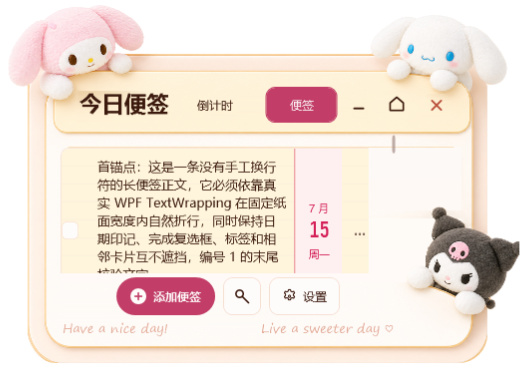
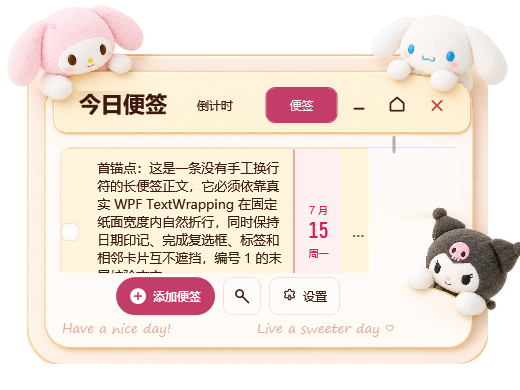
fix: 验证捕获钉死确定性文本渲染，免疫显示拓扑基线误红
GameViewer 虚拟显示器 21:09 上线改变显示拓扑，WPF 文本渲染参数（灰阶
gamma/对比度/ClearType 推导）随之切换，捕获帧文本渲染漂移，SourceTree
基线像素门禁（逐字节哈希）main/floating 自 21:49 起双双误红；同源码
15:53 全绿。已排除 exe/源码哈希漂移、色温、字体更新、墙钟泄漏。

ValidationReport 新增 PinDeterministicTextOptions：捕获钉死
TextRenderingMode=Aliased + TextFormattingMode=Ideal，1-bit 光栅化不经
灰阶参数管线，渲染输出仅由字形几何与布局决定。按新口径重拍 12 帧基线
与 2 份 manifest（旧帧归档 run-evidence v22-prev-20260917-234056），
金丝雀值按新帧重推导，DESIGN.md §11 记录根因与口径；同步
IntegrityHashes（CSharp.Tests / ValidationReport.cs）。

验证：虚拟屏在线夜间时段完整 C# 套件 857/0、快速复现 validate-only
Valid:true、Deploy -ValidateOnly 571 文件全绿。

diff --git a/src/MinminCountdown/ValidationReport.cs b/src/MinminCountdown/ValidationReport.cs
@@ -3421,10 +3421,11 @@ internal static class ValidationReport
         // 重推导（x=200 列，delta≥30，证据 run-evidence\clock-countdown-issue-146-final-closure）。
         // Notes-Day 标签带收窄至 [405,424]：[425,426] 是 #135 sanction 的工作区卡片顶边（全宽），
         // 旧 [405,440] 会在新布局下把 sanctioned 卡边误计为标签带违规；标签字形仍被精确行金丝覆盖。
+        // 2026-09-17 深夜：捕获口径改 Aliased+Ideal 并重拍 v22 后按新帧再次重推导（同一 x=200/delta≥30 口径）。
         var specs = new[]
         {
-            new MainDaySingleBorderSpec("Countdown-Day", "countdown", "main-day-countdowns-empty.png", 480, 580, new[] { 540, 542, 553, 554, 555 }, 480, 510),
-            new MainDaySingleBorderSpec("Notes-Day", "notes", "main-day-notes-empty.png", 405, 525, new[] { 425, 426, 474, 499, 500, 503, 504, 506, 508, 509, 516, 517 }, 405, 424)
+            new MainDaySingleBorderSpec("Countdown-Day", "countdown", "main-day-countdowns-empty.png", 480, 580, new[] { 539, 540, 552, 553 }, 480, 510),
+            new MainDaySingleBorderSpec("Notes-Day", "notes", "main-day-notes-empty.png", 405, 525, new[] { 425, 426, 497, 498, 499, 501, 502, 503, 505, 506, 514, 515 }, 405, 424)
         };
         var directory = Path.Combine(
             Path.GetFullPath(sourceRoot),
@@ -8092,13 +8093,18 @@ internal static class ValidationReport
         }
     }
 
-    // 文本抗锯齿与格式化默认跟随系统 ClearType/显示设置漂移；基线重拍与无人值守
-    // 复验必须在同一渲染参数下进行，统一钉死为灰阶抗锯齿 + Display 格式化。
+    // 文本抗锯齿与格式化默认跟随系统显示环境漂移，且不只是抗锯齿灰阶：WPF 未显式钉死时
+    // 会按显示拓扑推导渲染参数（Avalon.Graphics 覆盖缺失时的系统查询路径），显示拓扑变化
+    // （如虚拟显示适配器加入）会同时改变 Display 格式化的像素对齐度量（实测长便签列表
+    // ScrollableHeight 871.4 -> 879.67 漂移）与灰阶抗锯齿的 gamma/对比度（细笔画出现/消失），
+    // 使像素基线门禁在环境变化后误红。捕获路径统一钉死为 Ideal 浮点格式化（度量只由字体
+    // 文件决定，无像素网格 hinting）+ Aliased 1-bit 光栅化（不经灰阶 gamma/对比度管线），
+    // 从机制上移除显示推导参数的入口，使捕获像素与布局对显示拓扑/时段确定。
     // TextOptions 是可继承附加属性，在捕获根上设置即下传，重复调用幂等。
     private static void PinDeterministicTextOptions(FrameworkElement visual)
     {
-        TextOptions.SetTextRenderingMode(visual, TextRenderingMode.Grayscale);
-        TextOptions.SetTextFormattingMode(visual, TextFormattingMode.Display);
+        TextOptions.SetTextRenderingMode(visual, TextRenderingMode.Aliased);
+        TextOptions.SetTextFormattingMode(visual, TextFormattingMode.Ideal);
     }
 
     private static RenderTargetBitmap RenderVisualToBitmap(FrameworkElement visual, int width, int height)

diff --git a/DESIGN.md b/DESIGN.md
@@ -408,7 +408,9 @@ App.xaml 控件模板段对基础 WPF 控件提供统一状态语言，全部引
 
 “视觉基线”指 manifest 钉死的真实 WPF 渲染截图集合，是视觉变化的唯一验收依据。演进口径如下：
 
[2 lines of base64/hex data omitted]
+
+2026-09-17 深夜补拍（捕获口径环境解耦）：当晚 21:09 GameViewer 虚拟显示适配器加入显示拓扑后，WPF 在无 `Avalon.Graphics` 覆盖键时按显示环境推导的文本渲染参数整体漂移——灰阶抗锯齿的 gamma/对比度变化（细笔画出现/消失）叠加 Display 格式化像素对齐度量变化（长便签列表 `ScrollableHeight` 871.4→879.67）——v22 双基线自 21:49 起在 SourceTree validate 中持续误红（`PngHashesMatch`/`PixelMetricsWithinThresholds` 超阈值 2-3 个数量级，渲染本身逐次确定）。根因修复：`ValidationReport.PinDeterministicTextOptions` 由「灰阶抗锯齿 + Display 格式化」改为 **Aliased + Ideal**（1-bit 光栅化不经灰阶 gamma/对比度管线，浮点格式化无像素网格 hinting，捕获像素与布局不再含显示推导参数入口），并按该口径原目录重拍 v22 全部 12 帧与双 manifest；灰阶/Display 旧帧归档于 `run-evidence\clock-countdown-issue-146-final-closure\v22-prev-20260917-234056\`。基线像素门禁自此对显示拓扑/时段变化免疫。仍保留的注意事项：显示器链路休眠的无人值守时段（`GetDeviceGammaRamp` 失败）历史上还伴随「捕获整幅透明」类 flake（与文本渲染参数无关的窗口合成路径问题）；该类 flake 未被本次口径钉死，视觉复验遇整幅透明时仍应在显示器唤醒的会话时段重试。
 
 1. 五个界面按本文件实现完成后，重拍纯日间 **v22** 真实渲染系列替换 v21 成为新基线；v22 只包含日间帧，不再有 Night 帧。
 2. v22 主窗口帧规模 8 帧（基线 `assets/ui-references/main-window/1165x1350/2026-09-11-v22/manifest.json`）：`main-day-countdowns-empty / -representative / -stress` 与 `main-day-notes-empty / -representative / -stress` 共 6 帧（无主题维度），加常设便签编辑态 `main-day-notes-edit` 与筛选弹层打开态 `main-day-notes-filter-open` 2 帧。若某帧无法稳定复现，必须在 v22 manifest 说明并在 Testing Decisions 记录，不得静默减少。
